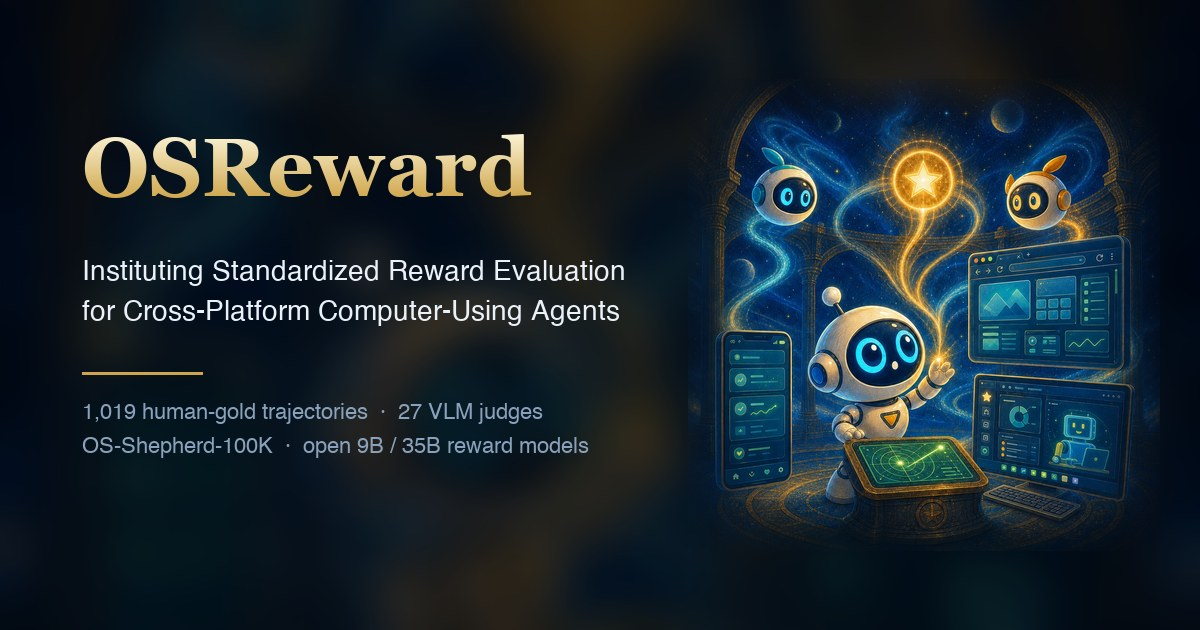
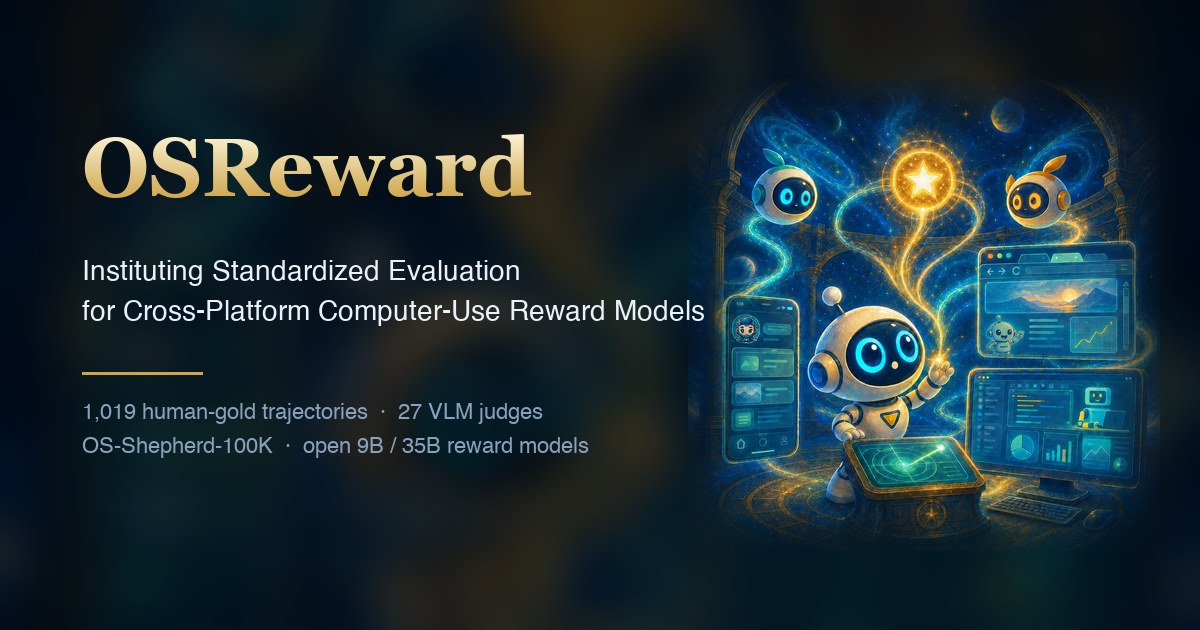
Retitle, rework hero bullets, new key art, reveal-on-click DataViewer

diff --git a/index.html b/index.html
@@ -4,7 +4,7 @@
 <head>
   <meta charset="utf-8">
   <meta name="viewport" content="width=device-width, initial-scale=1">
-  <title>OSReward: Instituting Standardized Reward Evaluation for Cross-Platform Computer-Using Agents</title>
+  <title>OSReward: Instituting Standardized Evaluation for Cross-Platform Computer-Use Reward Models</title>
   <meta name="description"
     content="OSReward is a benchmark of 1,019 human-gold cross-platform CUA trajectories that measures how reliably VLM judges score them, plus OS-Shepherd-100K and open 9B/35B reward models.">
   <meta name="color-scheme" content="light dark">
@@ -22,7 +22,7 @@
   <meta property="og:type" content="website">
   <meta property="og:url" content="https://os-copilot.github.io/OSReward-Home/">
   <meta property="og:site_name" content="OSReward">
-  <meta property="og:title" content="OSReward: Instituting Standardized Reward Evaluation for Cross-Platform Computer-Using Agents">
+  <meta property="og:title" content="OSReward: Instituting Standardized Evaluation for Cross-Platform Computer-Use Reward Models">
   <meta property="og:description"
     content="Are VLM judges reliable enough to reward computer-using agents? 1,019 human-gold trajectories, 27 judges benchmarked, and OS-Shepherd — open reward models at 30–60x lower cost.">
   <meta property="og:image" content="https://os-copilot.github.io/OSReward-Home/public/social/og-image.png">
@@ -30,7 +30,7 @@
   <meta property="og:image:height" content="630">
   <meta name="twitter:card" content="summary_large_image">
   <meta name="twitter:site" content="@qiushi_sun">
-  <meta name="twitter:title" content="OSReward: Instituting Standardized Reward Evaluation for Cross-Platform Computer-Using Agents">
+  <meta name="twitter:title" content="OSReward: Instituting Standardized Evaluation for Cross-Platform Computer-Use Reward Models">
   <meta name="twitter:description"
     content="Are VLM judges reliable enough to reward computer-using agents? 1,019 human-gold trajectories, 27 judges benchmarked, and OS-Shepherd — open reward models at 30–60x lower cost.">
   <meta name="twitter:image" content="https://os-copilot.github.io/OSReward-Home/public/social/og-image.png">
@@ -143,8 +143,8 @@
     <div class="wrap wrap-wide hero-split">
       <div class="hero-content">
         <h1><span class="gilt">OSReward</span></h1>
-        <p class="tagline">Instituting Standardized Reward Evaluation<br class="br-lg">
-          for Cross-Platform Computer-Using Agents</p>
+        <p class="tagline">Instituting Standardized Evaluation<br class="br-lg">
+          for Cross-Platform Computer-Use Reward Models</p>
         <p class="lede">A CUA <em>trajectory</em> is the interleaved record of an agent's screens, actions
           and reasoning. Deciding whether it fulfilled the instruction is the reward signal behind
           evaluation, data curation and RL. How well the models we now use as judges actually make that
@@ -157,8 +157,8 @@
                 <rect x="3" y="4" width="18" height="14" rx="2" /><path d="M8 21h8M12 18v3" stroke-linecap="round" />
               </svg>
             </span>
-            <span><b>1,019 human-gold trajectories</b> across web, Windows, Ubuntu and mobile, labeled by
-              three annotators each</span>
+            <span><b>A human-gold benchmark</b> of CUA trajectories across web, Windows, Ubuntu and
+              mobile, with an OSReward-Hard variant and OSReward-Multi for fine-grained grading</span>
           </li>
           <li>
             <span class="b-ico" aria-hidden="true">
@@ -166,8 +166,8 @@
                 <path d="M4 19V9M10 19V5M16 19v-6M22 19H2" stroke-linecap="round" />
               </svg>
             </span>
-            <span><b>A comprehensive judge evaluation</b>: 27 models under one protocol, on the full
-              set and on the OSReward-Hard challenge set</span>
+            <span><b>The most comprehensive judge evaluation to date</b>, characterising models along
+              multiple dimensions, with extensive analysis and the insights it yields</span>
           </li>
           <li>
             <span class="b-ico" aria-hidden="true">
@@ -186,8 +186,8 @@
                 <path d="M12 12v9M12 12 4.5 7.8M12 12l7.5-4.2" stroke-linejoin="round" />
               </svg>
             </span>
-            <span><b>OS-Shepherd 9B / 35B</b>: open, self-hostable reward models trained on that corpus,
-              level with commercial judges at 30–60× lower cost</span>
+            <span><b>OS-Shepherd 9B / 35B</b>: open-weight, open-data reward models trained on that
+              corpus, level with commercial judges at 30–60× lower cost</span>
           </li>
         </ul>
 
@@ -227,7 +227,6 @@
             OS-Shepherd-9B/35B
           </a>
         </div>
-        <p class="links-note">Dashed links go live as each artifact lands.</p>
       </div>
 
       <figure class="hero-art plate">
@@ -317,7 +316,8 @@
       <div class="wrap">
         <div class="section-head">
           <span class="eyebrow">Overview</span>
-          <h2 class="section-title">How reliable is a <span class="gilt">VLM judge</span> for CUA?</h2>
+          <h2 class="section-title">How reliable is a <span class="gilt">VLM judge</span> for CUA
+            trajectories?</h2>
         </div>
 
         <div class="card abstract rise">
@@ -957,11 +957,11 @@
     <section class="band" id="viewer">
       <div class="wrap">
         <div class="section-head">
-          <span class="eyebrow">DataViewer</span>
-          <h2 class="section-title">Look at <span class="gilt">a trajectory</span></h2>
-          <p class="section-sub">A reward signal is only as good as what it is asked to read. Step through a
-            trajectory the way a judge sees it — the instruction, the agent's actions and reasoning, the
-            human verdict, and what each judge called it.</p>
+          <span class="eyebrow">Explore</span>
+          <h2 class="section-title">Data <span class="gilt">Viewer</span></h2>
+          <p class="section-sub">Look at the cases yourself. Step through a trajectory the way a judge
+            sees it — the instruction, the agent's actions and its reasoning — make your own call, then
+            reveal what the annotators decided and how the judges scored it.</p>
         </div>
         <div class="card chart-card rise" id="viewer-card">
           <div id="viewer-body"></div>
@@ -1051,7 +1051,7 @@
           </div>
           <!-- TODO: fill in eprint / journal once the arXiv id is assigned. -->
           <pre id="bibtex">@article{sun2026osreward,
-  title   = {OSReward: Instituting Standardized Reward Evaluation for Cross-Platform Computer-Using Agents},
+  title   = {OSReward: Instituting Standardized Evaluation for Cross-Platform Computer-Use Reward Models},
   author  = {Sun, Qiushi and Cheng, Kanzhi and Wang, Yian and Yang, Bowen and Yan, Hang and
              Chen, Liheng and Xu, Fangzhi and Ding, Zichen and Chen, Nuo and Cao, Jialin and
              Gong, Xingdong and Li, Zehao and Jin, Kaiming and Yuan, Xinfeng and Liu, Zhoumianze and

diff --git a/static/js/main.js b/static/js/main.js
@@ -358,19 +358,39 @@
         h("p", "viewer-thought", card, s.thought);
       });
 
-      h("span", "viewer-k", stage, "Human verdict");
-      var vr = h("div", "viewer-verdict", stage);
+      /* The verdict stays hidden until asked for. A reader who sees "FAILURE"
+         before reading the steps never forms their own call, which is the one
+         thing this section is for (Qiushi, 2026-07-30). Rebuilt on every
+         render, so paging to another example hides the answer again. */
+      var answerId = "viewer-answer-" + idx;
+      var btn = h("button", "viewer-reveal", stage, "Did it succeed? Reveal the verdict");
+      btn.type = "button";
+      btn.setAttribute("aria-expanded", "false");
+      btn.setAttribute("aria-controls", answerId);
+
+      var panel = h("div", "viewer-answer", stage);
+      panel.id = answerId;
+      panel.hidden = true;
+
+      h("span", "viewer-k", panel, "Human verdict");
+      var vr = h("div", "viewer-verdict", panel);
       h("span", "viewer-tag viewer-tag-" + e.gold, vr, e.gold);
       h("p", "viewer-why", vr, e.goldWhy);
 
-      h("span", "viewer-k", stage, "What the judges called it");
-      var jr = h("div", "viewer-judges", stage);
+      h("span", "viewer-k", panel, "What the judges called it");
+      var jr = h("div", "viewer-judges", panel);
       e.judges.forEach(function (j) {
         var row = h("div", "viewer-judge" + (j.correct ? "" : " wrong"), jr);
         row.title = j.correct ? "matches the human verdict" : "disagrees with the human verdict";
         h("span", "jn", row, j.name);
         h("span", "jv", row, j.verdict);
         h("span", "jm", row, j.correct ? "✓" : "✗");
+      });
+
+      btn.addEventListener("click", function () {
+        panel.hidden = false;
+        btn.setAttribute("aria-expanded", "true");
+        btn.remove();
       });
     }
 

diff --git a/static/css/main.css b/static/css/main.css
@@ -602,7 +602,6 @@ h2.section-title { font-size: clamp(28px, 3.6vw, 38px); margin-bottom: 12px; }
    9. Link row
    -------------------------------------------------------------------------- */
 .links { display: flex; flex-wrap: wrap; gap: 6px; margin: 0; }
-.links-note { font-size: 12.5px; color: var(--text-faint); margin: 10px 0 0; }
 .btn {
   display: inline-flex;
   align-items: center;
@@ -1325,6 +1324,28 @@ figcaption { font-size: 13px; color: var(--text-faint); margin-top: 11px; line-h
   overflow-wrap: break-word;
 }
 .viewer-thought { font-size: 12.5px; line-height: 1.55; color: var(--text-dim); margin: 0; }
+
+/* Reveal control: the answer is deliberately withheld until clicked. */
+.viewer-reveal {
+  font-family: var(--font-body);
+  font-size: 13.5px;
+  font-weight: 600;
+  letter-spacing: 0.01em;
+  color: var(--gold-200);
+  background: rgba(217, 165, 58, 0.09);
+  border: 1px dashed var(--gold-500);
+  border-radius: 999px;
+  padding: 10px 20px;
+  cursor: pointer;
+}
+.viewer-reveal:hover { background: rgba(217, 165, 58, 0.16); border-style: solid; }
+:root[data-theme="light"] .viewer-reveal { color: var(--gold-600); }
+.viewer-answer[hidden] { display: none; }
+.viewer-answer { animation: viewer-fade 0.22s ease-out both; }
+@keyframes viewer-fade {
+  from { opacity: 0; transform: translateY(4px); }
+  to { opacity: 1; transform: none; }
+}
 
 .viewer-verdict { display: flex; align-items: flex-start; gap: 13px; margin-bottom: 22px; }
 .viewer-tag {

diff --git a/open_items.md b/open_items.md
@@ -95,10 +95,12 @@ and the `logos/OS-Shepherd.png` family mark).
 
 ### B3 — Cover art **NOTE**
 `public/cover.png` / `.webp` are 900×900 exports of
-`figure/resources/cover-2.jpg` (gitignored; it replaced the original
-`osreward-cover.png` on 2026-07-29). The social card is a 1200×630 composite of
-the same file. All of it is rebuilt by `python3 figure/build_cover_assets.py`,
-which also keeps the card's colours in step with the CSS `:root` tokens.
+`figure/resources/osreward-cover-3.jpg` (gitignored; the art has been replaced
+twice — `osreward-cover.png` → `cover-2.jpg` → this one). The social card is a
+1200×630 composite of the same file. All of it is rebuilt by
+`python3 figure/build_cover_assets.py`, which also keeps the card's colours in
+step with the CSS `:root` tokens **and bakes in the page title** — so a title
+change means re-running it, not just editing the HTML.
 
 The **favicons are not** built from the cover — they come from the OS-Shepherd
 brand mark (B2). An earlier version of this note claimed otherwise; corrected

diff --git a/README.md b/README.md
@@ -1,7 +1,7 @@
 # OSReward — project page
 
-Source for the OSReward homepage: *Instituting Standardized Reward Evaluation for
-Cross-Platform Computer-Using Agents*.
+Source for the OSReward homepage: *Instituting Standardized Evaluation for
+Cross-Platform Computer-Use Reward Models*.
 
 Static HTML, CSS and vanilla JS. No build step, no framework, no CDN scripts —
 open `index.html` or serve the directory and it runs.
